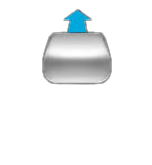
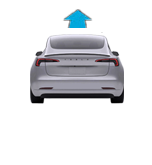
前车驶离-图片修改及翻译修复
升级agnos16

Revert "升级agnos16"

This reverts commit 0d0becb5b39ff055b3e6748a2e46505dc43ef9ba.

漏的翻译修复

Revert "升级agnos16"

This reverts commit 068a2310105954b1e30f074a92dd2d3efd5ba42b.

翻译修复

前车驶离提醒图片更换

Changed region(s): [[0.1842, 0.1515, 0.8158, 0.6364]]

diff --git a/selfdrive/ui/translations/main_zh-CHS.ts b/selfdrive/ui/translations/main_zh-CHS.ts
@@ -224,7 +224,7 @@ Please use caution when using this feature. Only use the blinker when traffic an
     </message>
     <message>
         <source>ADB (Android Debug Bridge) allows connecting to your device over USB or over the network. See https://docs.comma.ai/how-to/connect-to-comma for more info.</source>
-        <translation>ADB（Android调试桥接）允许通过USB或网络连接到您的设备。更多信息请参见 [https://docs.comma.ai/how-to/connect-to-comma](https://docs.comma.ai/how-to/connect-to-comma)。</translation>
+        <translation>ADB（Android调试桥接）允许通过USB或网络连接到您的设备。更多信息请参见 https://docs.comma.ai/how-to/connect-to-comma。</translation>
     </message>
     <message>
         <source>On this car, sunnypilot defaults to the car&apos;s built-in ACC instead of sunnypilot&apos;s longitudinal control. Enable this to switch to sunnypilot longitudinal control. Enabling Experimental mode is recommended when enabling sunnypilot longitudinal control alpha.</source>
@@ -1173,10 +1173,6 @@ DEPARTING</source>
         <translation>决策模型</translation>
     </message>
     <message>
-        <source>If you’re driving at 20 mph (32 km/h) or below and have your blinker on, the car will plan a turn in that direction at the nearest drivable path. This prevents situations (like at red lights) where the car might plan the wrong turn direction.</source>
-        <translation>如果你的车速在20英里/小时（32公里/小时）或以下，并且已打开转向灯，汽车将在最近的可行驶路径上计划朝该方向转弯。这可以避免在红绿灯等情况下，汽车可能会计划错误的转弯方向的情况。</translation>
-    </message>
-    <message>
         <source>Live Learning Steer Delay</source>
         <translation>实时学习转向延迟</translation>
     </message>
@@ -1281,6 +1277,10 @@ The default software delay value is 0.2</source>
     <message>
         <source>Fetching Latest Models</source>
         <translation>正在获取最新驾驶模型列表</translation>
+    </message>
+    <message>
+        <source>If you’re driving at 20 mph (32 km/h) or below and have your blinker on, the car will plan a turn in that direction at the nearest drivable path. This prevents situations (like at red lights) where the car might plan the wrong turn direction.</source>
+        <translation>如果你的车速在20英里/小时（32公里/小时）或以下，并且已打开转向灯，汽车将在最近的可行驶路径上计划朝该方向转弯。这可以避免在红绿灯等情况下，汽车可能会计划错误的转弯方向的情况。</translation>
     </message>
     <message>
         <source>Enable this for the car to learn and adapt its steering response time. Disable to use a fixed steering response time. Keeping this on provides the stock openpilot experience.</source>

diff --git a/selfdrive/ui/sunnypilot/qt/offroad/settings/models_panel.cc b/selfdrive/ui/sunnypilot/qt/offroad/settings/models_panel.cc
@@ -105,9 +105,9 @@ ModelsPanel::ModelsPanel(QWidget *parent) : QWidget(parent) {
 
   // Lane Turn Desire toggle
   lane_turn_desire_toggle = new ParamControlSP("LaneTurnDesire", tr("Use Lane Turn Desires"),
-                            "If you’re driving at 20 mph (32 km/h) or below and have your blinker on, "
-                            "the car will plan a turn in that direction at the nearest drivable path. "
-                            "This prevents situations (like at red lights) where the car might plan the wrong turn direction.",
+                            tr("If you’re driving at 20 mph (32 km/h) or below and have your blinker on, "
+                               "the car will plan a turn in that direction at the nearest drivable path. "
+                               "This prevents situations (like at red lights) where the car might plan the wrong turn direction."),
                              "../assets/offroad/icon_shell.png");
   list->addItem(lane_turn_desire_toggle);
 